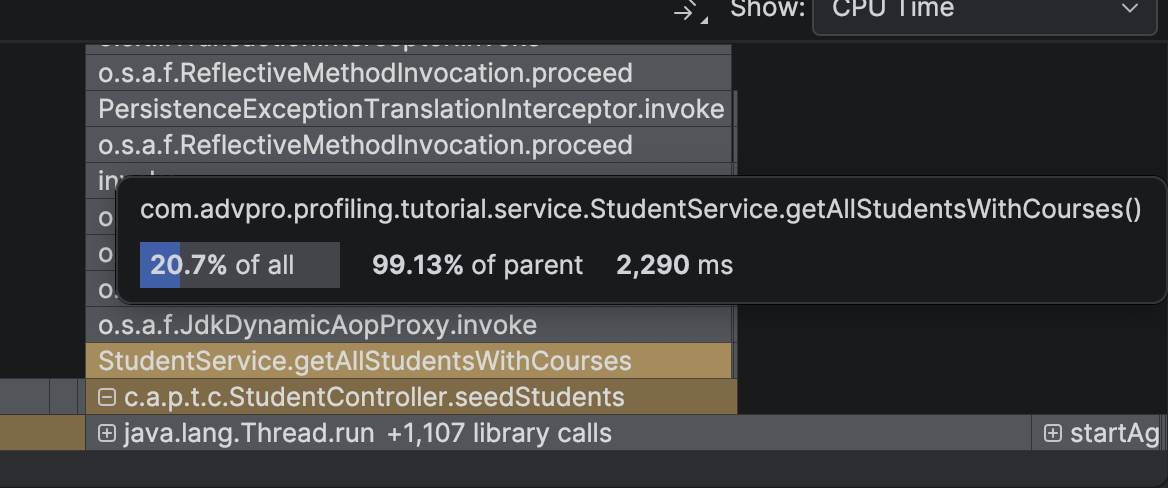
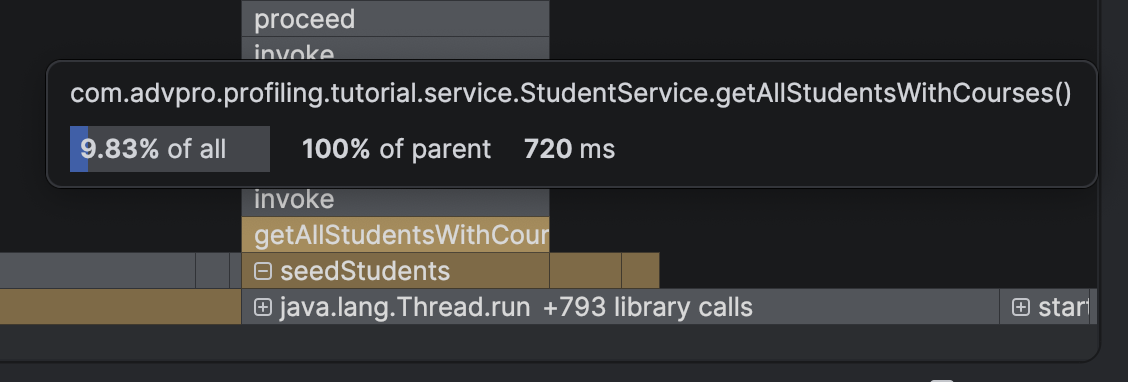
README for reflection

diff --git a/README.md b/README.md
@@ -13,4 +13,40 @@ Test plans from CMD
 
 Abis dioptimalin
 ![Screenshot 2026-04-28 at 11.24.17.png](assets/Screenshot%202026-04-28%20at%2011.24.17.png)
-Pingnya turun dengan Avg: 251 | Max: 988
+![img.png](assets/img.png)
+
+Reflection
+1. Perbedaan pendekatan JMeter (Performance Testing) dan IntelliJ Profiler
+   JMeter (Performance Testing): Pendekatannya bersifat Black-box (dari luar). JMeter bertugas sebagai klien yang mensimulasikan beban (load) dengan mengirimkan banyak request ke aplikasi. Fokus utamanya adalah mengukur metrik eksternal seperti waktu respon (Latency/Average Time), Throughput (jumlah request per detik), dan tingkat error saat aplikasi berada di bawah tekanan.
+
+IntelliJ Profiler (Profiling): Pendekatannya bersifat White-box (dari dalam). Profiler membedah mesin aplikasi saat sedang berjalan untuk melihat bagaimana resource digunakan. Fokus utamanya adalah mengukur metrik internal seperti waktu eksekusi CPU per method (CPU Time), alokasi memori, dan Garbage Collection.
+
+2. Bagaimana Profiler membantu mengidentifikasi titik lemah aplikasi
+   Profiler membantu dengan memvisualisasikan eksekusi kode, salah satunya melalui Flame Graph. Alih-alih menebak bagian kode mana yang lambat, Profiler memperlihatkan secara persis method mana yang memakan waktu CPU paling lebar atau memori paling besar. Hal ini memudahkan kita menemukan akar masalah (root cause), seperti pada kasus N+1 Query Problem di mana method getAllStudentsWithCourses() terlihat mendominasi waktu eksekusi.
+
+3. Efektivitas IntelliJ Profiler dalam menganalisis bottleneck
+   Ya, sangat efektif. IntelliJ Profiler terintegrasi langsung dengan IDE, sehingga kita tidak perlu memasang alat eksternal atau menambahkan logging manual (seperti System.currentTimeMillis()) di setiap baris kode. Melalui fitur Call Tree dan Flame Graph, kita bisa melihat tumpukan eksekusi secara hierarkis dan bisa langsung melompat (jump to source) ke baris kode yang menjadi bottleneck hanya dengan satu kali klik.
+
+4. Tantangan utama saat Profiling & Performance Testing dan cara mengatasinya
+   Tantangan: Kesulitan membedakan antara waktu eksekusi kode aplikasi sendiri (business logic) dengan waktu eksekusi dari framework atau library bawaan (seperti overhead dari Spring Boot atau proses Eager Fetching dari Hibernate yang tersembunyi). Tantangan lainnya adalah Profiler seringkali menambah beban kerja (overhead) yang membuat waktu respon aplikasi tidak 100% akurat.
+
+Cara Mengatasi: Menggunakan fitur filter pada Profiler untuk menyembunyikan library calls dan fokus pada package aplikasi kita (com.advpro...). Selain itu, selalu kombinasikan Profiler dengan JMeter untuk memastikan aplikasi mendapat beban kerja yang realistis saat sedang di- profile.
+
+5. Manfaat utama menggunakan IntelliJ Profiler
+   Mendapatkan visualisasi nyata (Flame Graph) dari kinerja CPU dan memori.
+
+Mampu mendeteksi masalah tersembunyi seperti kebocoran memori (memory leak dari manipulasi String) atau anomali pada database fetching.
+
+Mempercepat siklus perbaikan (debugging) karena terintegrasi langsung di tempat kita menulis kode.
+
+6. Menangani ketidakkonsistenan antara hasil JMeter dan IntelliJ Profiler
+   Jika JMeter menunjukkan aplikasi sangat lambat (waktu respon tinggi) tetapi Profiler tidak menunjukkan adanya lonjakan pemakaian CPU di method kita, itu berarti bottleneck-nya bukan di CPU. Cara menanganinya adalah dengan mengubah fokus Profiler:
+
+Mengecek tab Memory/Allocations (apakah lambat karena aplikasi terlalu sibuk melakukan Garbage Collection).
+
+Mengecek tab Events/Threads (apakah lambat karena aplikasi menunggu antrian Network I/O, Database Lock, atau Thread contention).
+
+7. Strategi optimasi dan cara memastikan fungsionalitas tidak rusak
+   Strategi Optimasi: Menghindari eksekusi kueri di dalam looping dengan menggunakan teknik seperti JOIN FETCH (untuk mengatasi N+1 Query). Selain itu, memanfaatkan struktur data yang lebih efisien seperti Java Streams untuk agregasi data (mencari max), dan menggunakan StringBuilder atau Collectors.joining() alih-alih operator += pada String.
+
+Memastikan Fungsionalitas: Menerapkan Regression Testing. Sebelum dan sesudah melakukan refactoring, saya harus menjalankan Unit Test dan Integration Test untuk memastikan output dari endpoint tetap konsisten. Selain itu, mengecek tingkat sukses (success rate / HTTP 200) di Summary Report JMeter untuk memastikan optimasi tidak memunculkan error baru.
